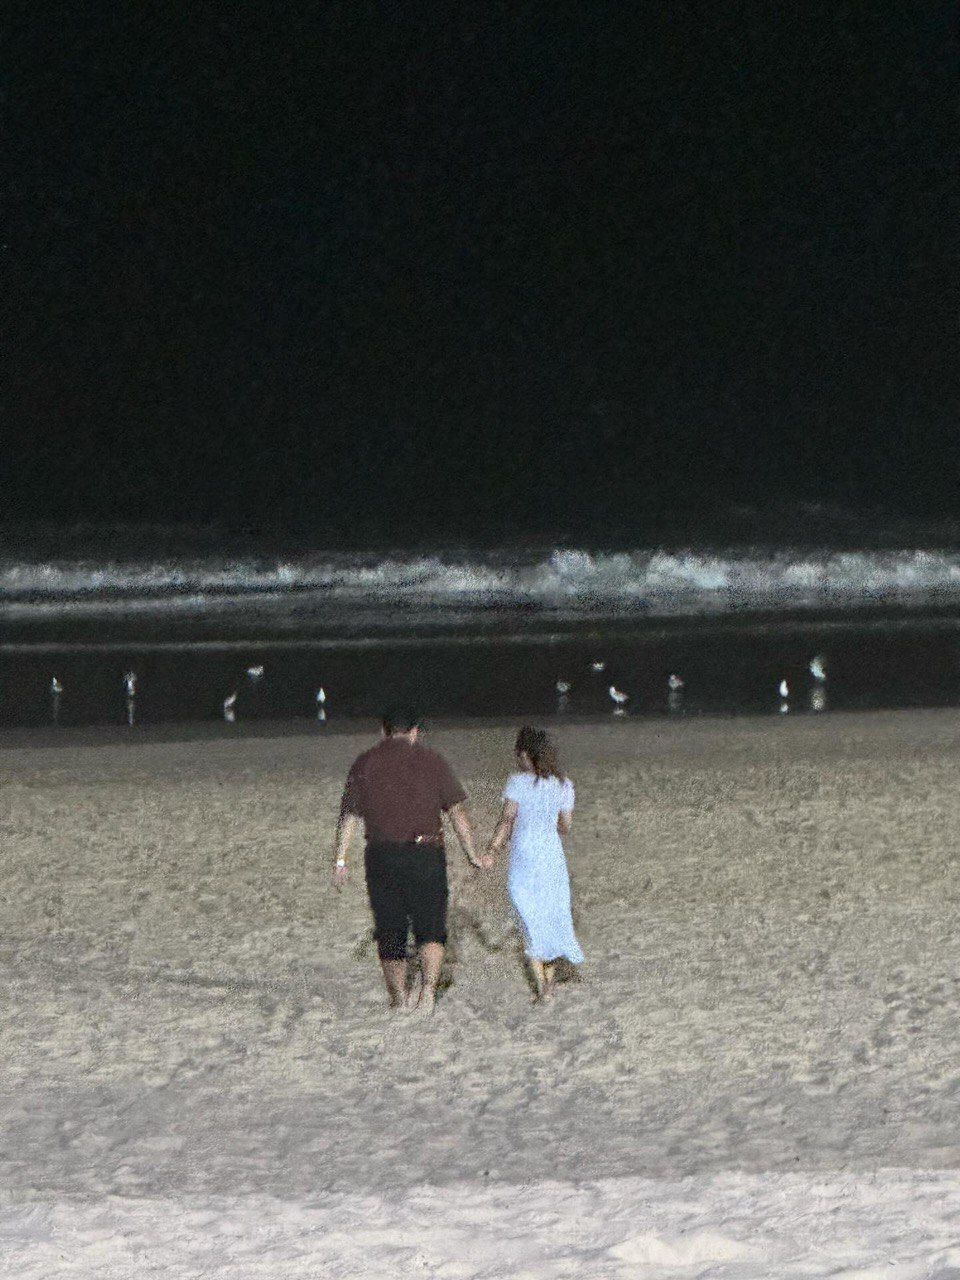
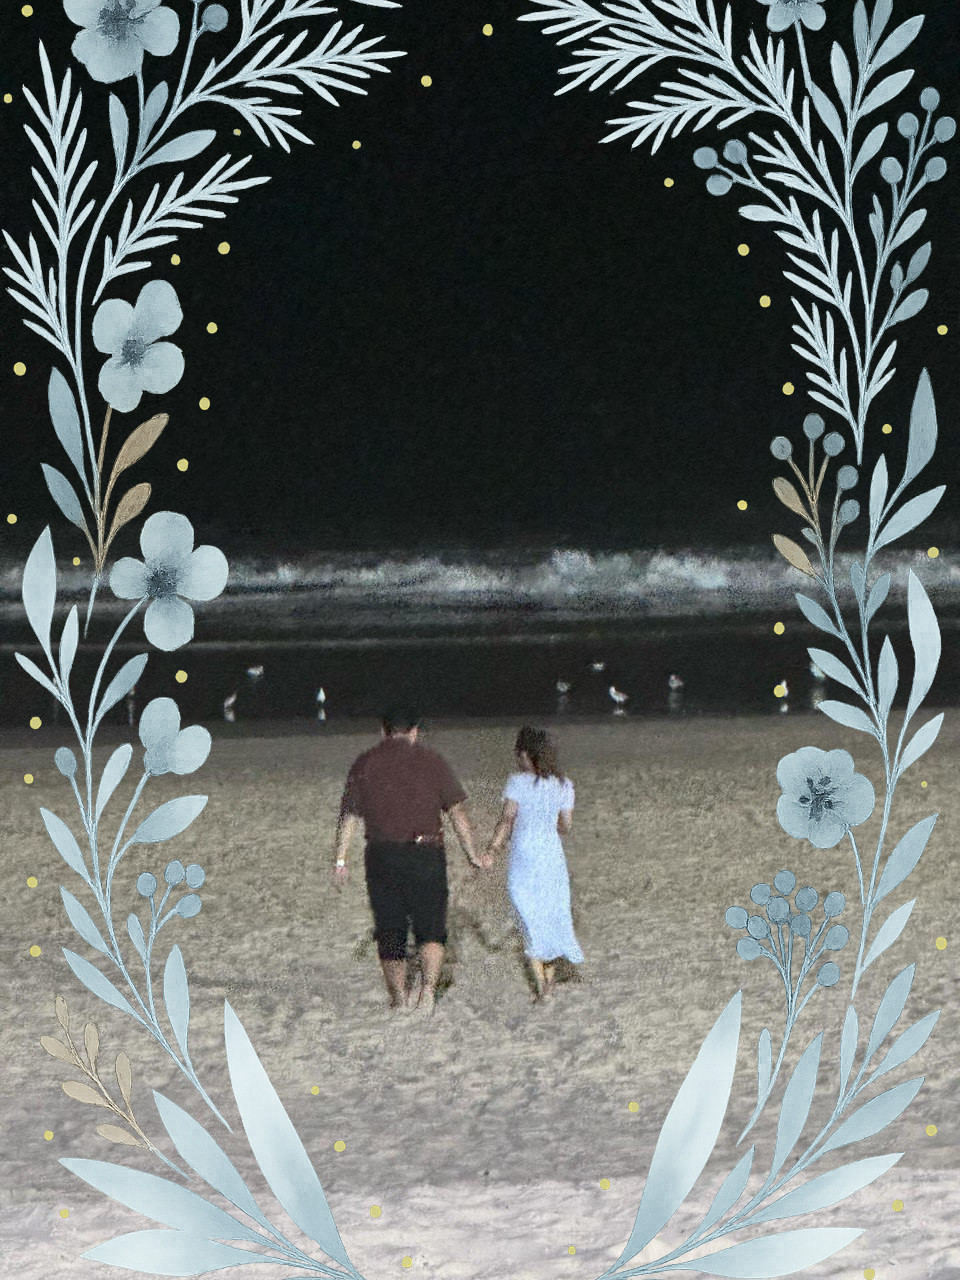
Upodated Title to be nice, and fixed yes/no button

Changed region(s): [[0.5312, 0.0, 1.0, 1.0], [0.0, 0.0, 0.4062, 1.0], [0.9688, 0.7188, 1.0, 0.75]]

diff --git a/style.css b/style.css
@@ -28,19 +28,47 @@ body{
 body::before{
   content:"";
   position:fixed; inset:0;
-  background:url('images/original_2025-06-12.jpg') center/cover no-repeat;
+  background:url('images/original_2025-06-12\ copy.jpg') center/cover no-repeat;
   opacity:.35;
   filter:grayscale(.2);
   z-index:-5;
 }
 
+/* === Floral frame (second overlay) ====================== */
+body::after{
+  content:"";
+  position:fixed;
+  inset:-200px;
+  pointer-events:none;                 /* so you can click through */
+  background:url('images/Flowers.png') center/ contain no-repeat;
+  z-index:-3;                          /* between blurred photo (-5) and content (0) */
+  opacity:1;                           /* keep it crisp */
+}
+
+/* ─── Middle torn banner ─────────────────────────────────── */
+.mid-band{
+  position:fixed;                 /* stay put on scroll */
+  top:20%; left:50%;
+  transform:translate(-50%,-50%); /* perfect centering */
+  width:max(120vw, 100%, 1600px);                    /* stretch edge-to-edge */
+  max-width:none;
+  pointer-events:none;            /* clicks pass through */
+  z-index:-2;                     /* sits above floral frame (-3) */
+}
+
+/* optional: shrink on very narrow phones */
+@media(max-width:480px){
+  .mid-band{width:140vw;}         /* a little overscan so edges still show */
+}
+
+
 /* ─── Fancy names heading ─────────────────────────────────── */
 h1{
   font-family:var(--font-head);
-  font-size:5rem;
+  font-size:8rem;
   line-height:1.1;
-  color:#052694;
-  -webkit-text-stroke:.7px #020824;
+  color:#c8cee4;
+  -webkit-text-stroke:.7px #b7e3ee;
   letter-spacing:.5px;
   text-shadow:0 4px 8px rgba(0,0,0,.3);
   margin-bottom:2.5rem;
@@ -62,6 +90,8 @@ h1{
   backdrop-filter:blur(var(--blur-card));
   box-shadow:0 12px 24px rgba(0,0,0,.15);
   opacity: 0.65;
+  color: #2733df;
+  background-color: #cad2e7;
 }
 
 .card h2{

diff --git a/index.html b/index.html
@@ -10,24 +10,28 @@
   <link rel="stylesheet" href="responsive-clock.css"><!-- your mobile tweaks -->
 </head>
 <body>
-  <h1>Khristian <br> & <br> Angelica </h1>
+  <img class="mid-band"
+     src="images/KhristianAndAngelica.png"
+     alt=""
+     aria-hidden="true">
+  <!-- <img class="title-img"
+     src="images/KhristianAndAngelica.png"
+     alt="Khristian and Angelica"> -->
   <div class="card">
     <h2>Will you attend?</h2>
 
     <form id="rsvpForm">
       <label class="toggle">
-  <input id="rsvpToggle" type="checkbox">
-  <span class="track">
-    <span class="txt yes">YES</span>
-    <span class="txt no">NO</span>
-    <span class="thumb"></span>
-  </span>
-</label>
-
+        <input id="rsvpToggle" type="checkbox">
+        <span class="track">
+          <span class="txt yes">YES</span>
+          <span class="txt no">NO</span>
+          <span class="thumb"></span>
+        </span>
+      </label>
       <!-- ✓ button now INSIDE the form -->
       <button class="btn" type="submit">Submit</button>
     </form>
-    <!-- <button type="submit">Submit</button> -->
 
     <p id="msg" class="success" style="display:none">Thanks — saved!</p>
     <p id="err" class="error" style="display:none">Error — please try again.</p>
@@ -65,10 +69,10 @@ const db = getFirestore(app);
 
 /* --- invite code from URL --------------------------------------- */
 const code = new URLSearchParams(location.search).get('code')?.toUpperCase();
-// if (!code || code.length !== 6) {
-//   document.body.innerHTML = '<p style="font-size:50px">Bad invite link.</p>';
-//   throw new Error('Missing code');
-// }
+if (!code || code.length !== 6) {
+  document.body.innerHTML = '<p style="font-size:50px">Bad invite link.</p>';
+  throw new Error('Missing code');
+}
 
 /* --- form handler ----------------------------------------------- */
 const form = document.getElementById('rsvpForm');
